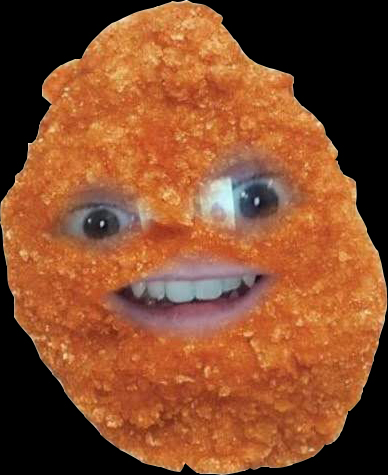
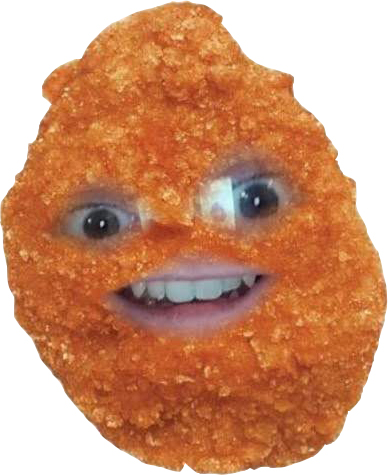
modifiying homepage contents

Changed region(s): [[0.0, 0.0, 1.0, 1.0], [0.0, 0.4716, 0.5258, 1.0]]

diff --git a/index.html b/index.html
@@ -1,6 +1,7 @@
 <!doctype html>
-<html lang="en">
+<html lang="en" class="webColor">
   <head>
+
     <meta charset="utf-8">
     <meta name="viewport" content="width=device-width, initial-scale=1, shrink-to-fit=no">
     <meta name="description" content="">
@@ -27,7 +28,7 @@
             
           </div>
           <div class="col-4 text-center">
-            <a class="blog-header-logo text-dark" href="#">My Portfolio</a>
+            <a class="blog-header-logo text-dark" href="#" color="#7A004A">My Portfolio</a>
           </div>
           <div class="col-4 d-flex justify-content-end align-items-center">
             <a class="text-muted" href="#">
@@ -65,8 +66,7 @@
 
           <div class="blog-post">
             <h2 class="blog-post-title">About</h2>
-            
-			<img src="chickennugget.jpg" width="211" height="inherit"/>
+            <img src="chickennugget.jpg" width="100" height="inherit"/>
             <p>Hello! Welcome to my site. I am a multifacted created currently pursuing a degree in Gaming and Interactive Media with a minor in Visual Art.<br />
             <br />
             This site serves as a portfolio of all of my work and the type of work varries widely.<br />

diff --git a/blog.css b/blog.css
@@ -1,10 +1,5 @@
 /* stylelint-disable selector-list-comma-newline-after */
-html {
-    background-color: #060405;
-    color: #98005C;
-    font-family: 'Lucida Console';
-    font-size: 62.5%;
-}
+
 .blog-header {
   line-height: 1;
   border-bottom: 1px solid #e5e5e5;
@@ -115,6 +110,9 @@ h1, h2, h3, h4, h5, h6 {
 .blog-post {
   margin-bottom: 4rem;
 	font-family: 'Lucida Console';
+}
+.blog-post p{
+	text-align: center;
 }
 .blog-post-title {
   margin-bottom: .25rem;
